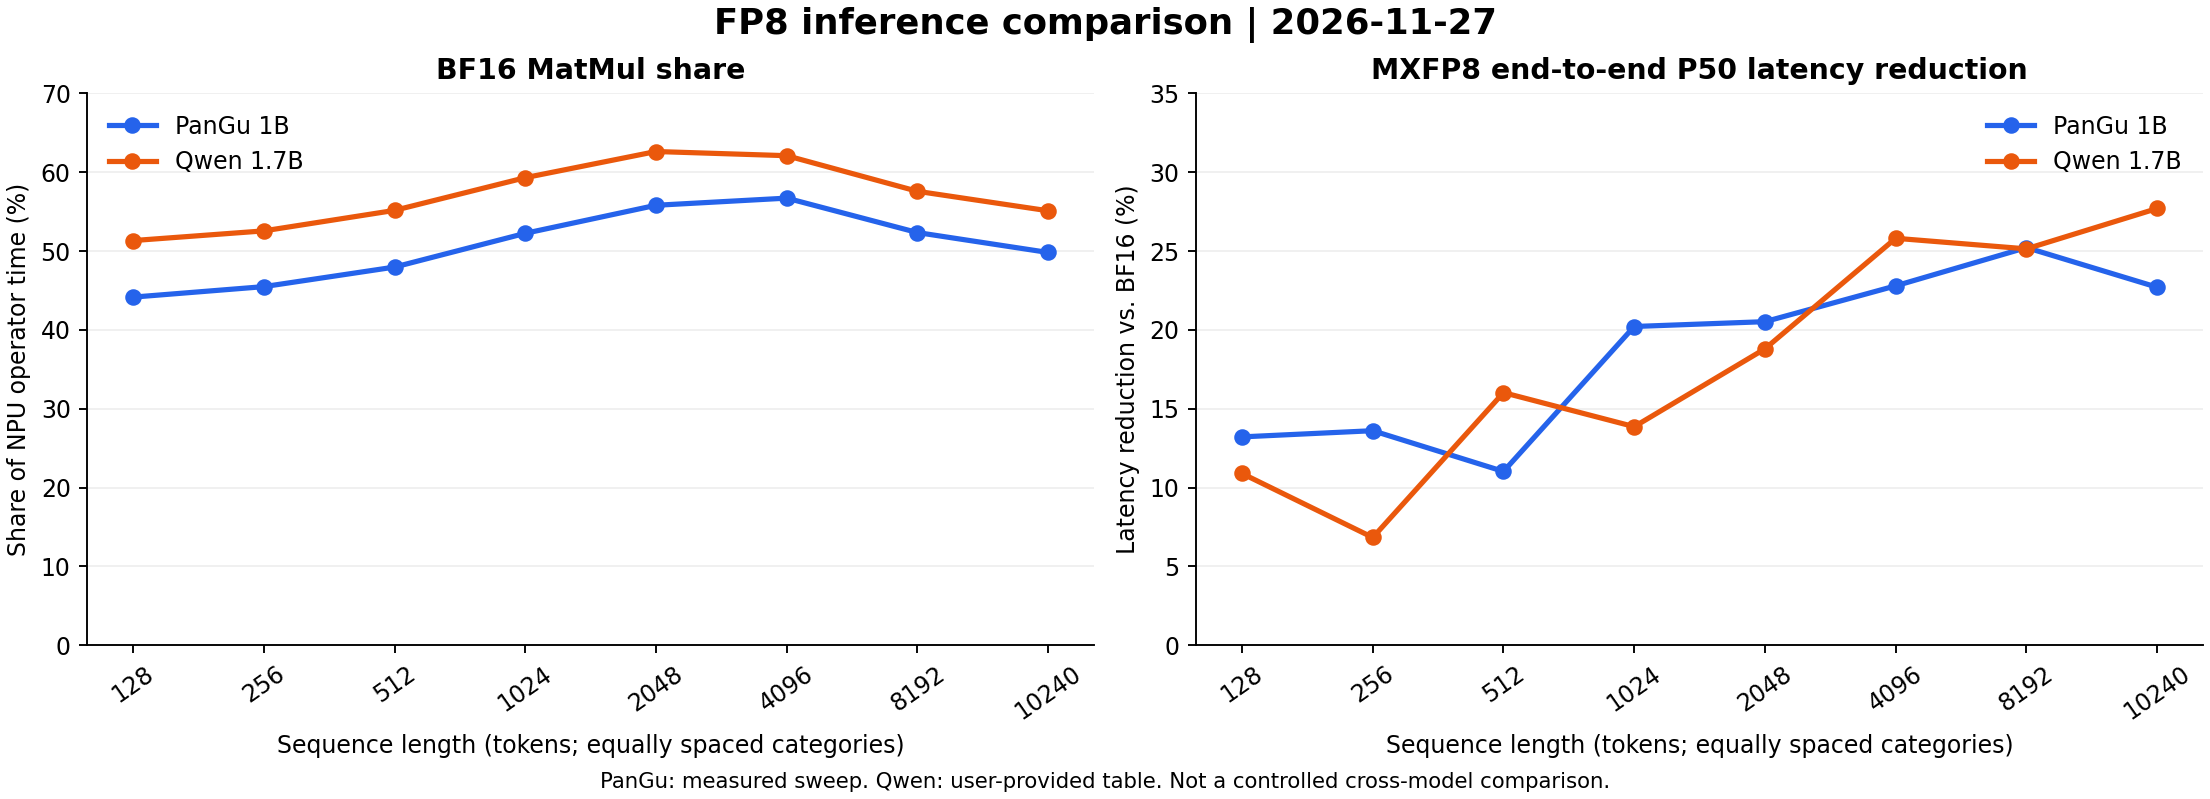
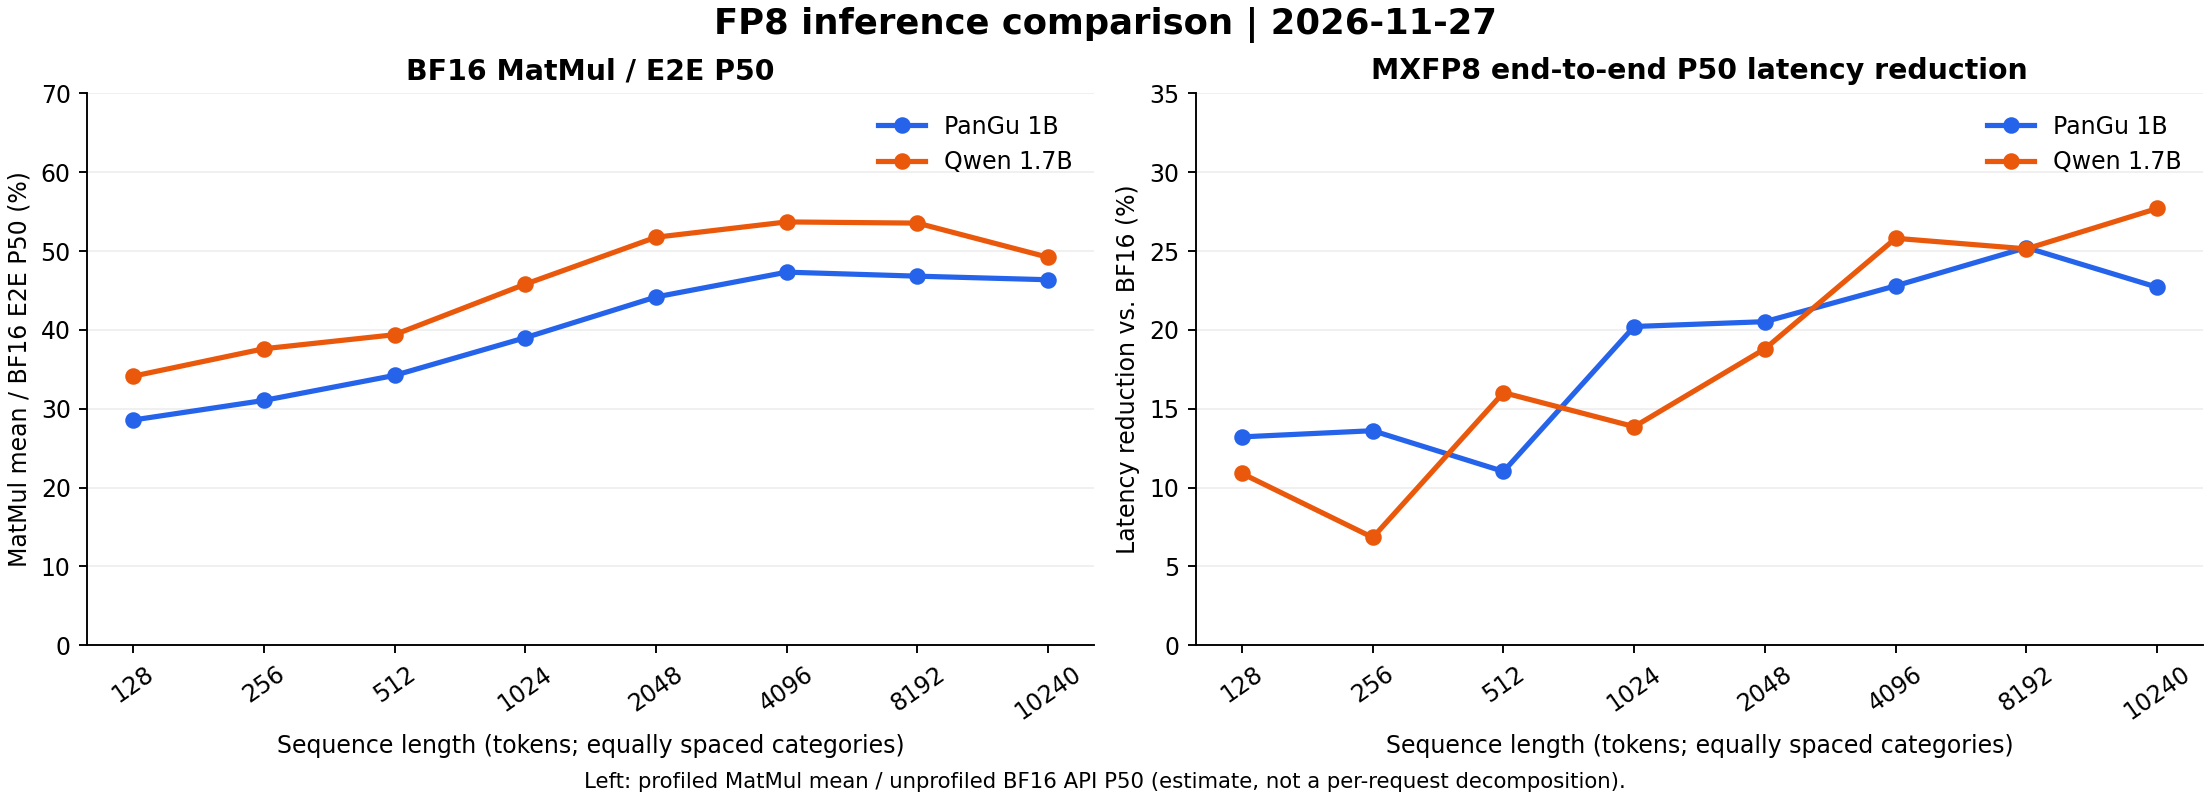
docs: plot BF16 MatMul relative to end-to-end P50

diff --git a/plot_comparison.py b/plot_comparison.py
@@ -9,14 +9,18 @@ import matplotlib.pyplot as plt
 root = Path(__file__).resolve().parent
 with (root / 'data/comparison.csv').open(encoding='utf-8', newline='') as f:
     rows = list(csv.DictReader(f))
+with (root / 'data/bf16_matmul_e2e.csv').open(encoding='utf-8', newline='') as f:
+    e2e_rows = list(csv.DictReader(f))
+assert [r['seq_tokens'] for r in rows] == [r['seq_tokens'] for r in e2e_rows]
 x = list(range(len(rows)))
 fig, axes = plt.subplots(1, 2, figsize=(13, 4.7), constrained_layout=True)
 for ax, metric, title, ylabel in [
-    (axes[0], 'bf16_matmul_pct', 'BF16 MatMul share', 'Share of NPU operator time (%)'),
+    (axes[0], 'bf16_matmul_e2e_pct', 'BF16 MatMul / E2E P50', 'MatMul mean / BF16 E2E P50 (%)'),
     (axes[1], 'latency_reduction_pct', 'MXFP8 end-to-end P50 latency reduction', 'Latency reduction vs. BF16 (%)'),
 ]:
     for model, label, color in [('pangu', 'PanGu 1B', '#2563eb'), ('qwen', 'Qwen 1.7B', '#ea580c')]:
-        ax.plot(x, [float(r[f'{model}_{metric}']) for r in rows], marker='o',
+        source = e2e_rows if metric == 'bf16_matmul_e2e_pct' else rows
+        ax.plot(x, [float(r[f'{model}_{metric}']) for r in source], marker='o',
                 linewidth=2.2, label=label, color=color)
     ax.set_xticks(x, [r['seq_tokens'] for r in rows], rotation=35)
     ax.set_xlabel('Sequence length (tokens; equally spaced categories)')
@@ -28,7 +32,7 @@ for ax, metric, title, ylabel in [
 axes[0].set_ylim(0, 70)
 axes[1].set_ylim(0, 35)
 fig.suptitle('FP8 inference comparison | 2026-11-27', fontsize=15, weight='bold')
-fig.supxlabel('PanGu: measured sweep. Qwen: user-provided table. Not a controlled cross-model comparison.', fontsize=9)
+fig.supxlabel('Left: profiled MatMul mean / unprofiled BF16 API P50 (estimate, not a per-request decomposition).', fontsize=9)
 (root / 'assets').mkdir(exist_ok=True)
 fig.savefig(root / 'assets/fp8-comparison.png', dpi=170, facecolor='white')
 plt.close(fig)

diff --git a/verify.py b/verify.py
@@ -21,4 +21,17 @@ assert {(r['seq'], r['precision']) for r in g['cases']} == {
 }
 assert all(r['fallbacks'] == 0 and r['prefill_replays'] == 65
            and r['decode_replays'] == 130 for r in g['cases'])
-print('PASS: 16 measurement rows and 16 PanGu graph replay records verified.')
+with (root / 'data/bf16_matmul_e2e.csv').open(encoding='utf-8', newline='') as f:
+    e2e_rows = list(csv.DictReader(f))
+assert [int(r['seq_tokens']) for r in e2e_rows] == expected
+for row in e2e_rows:
+    for model, source in [('pangu', 'pangu_1b'), ('qwen', 'qwen_1_7b')]:
+        numerator = float(row[f'{model}_bf16_matmul_mean_ms'])
+        denominator = float(row[f'{model}_bf16_e2e_p50_ms'])
+        ratio = float(row[f'{model}_bf16_matmul_e2e_pct'])
+        assert 0 < numerator <= denominator
+        assert abs(ratio - 100 * numerator / denominator) < 1e-10
+        with (root / 'data' / f'{source}.csv').open(encoding='utf-8', newline='') as f:
+            original = next(r for r in csv.DictReader(f) if r['seq_tokens'] == row['seq_tokens'])
+        assert abs(denominator - float(original['bf16_p50_ms'])) <= .00051
+print('PASS: measurement tables, graph records and 16 MatMul/E2E estimates verified.')

diff --git a/README.md b/README.md
@@ -8,9 +8,13 @@
 
 [下载单页 PowerPoint：Recall@32 与 AUC](slides/onerec-recall32-auc.pptx)
 
-![PanGu 1B 与 Qwen 1.7B 的 BF16 矩阵乘占比和 MXFP8 时延降幅](assets/fp8-comparison.png)
+![PanGu 1B 与 Qwen 1.7B 的 BF16 矩阵乘 E2E 占比估算和 MXFP8 时延降幅](assets/fp8-comparison.png)
 
-| Seq（token） | PanGu 1B：BF16 矩阵乘占比 | Qwen 1.7B：BF16 矩阵乘占比 | PanGu 1B：P50 时延降低 | Qwen 1.7B：P50 时延降低 |
+图左已改为 **BF16 矩阵乘每请求平均耗时 / BF16 API 端到端 P50 × 100%**。分子来自 5 条 profile 请求，分母来自预热后 50 条不启用 profiler 的请求，因此是跨采样的占比估算，不是同一请求的精确 E2E 分解。两模型的原始耗时均已从本地序列扫描结果提取，见 [E2E 占比明细 CSV](data/bf16_matmul_e2e.csv)。图右继续显示端到端 P50 时延降低百分比。
+
+下方历史表格中的矩阵乘占比仍采用原 NPU 算子累计时间口径，已在列名中标注，与图左的 E2E 口径不同。
+
+| Seq（token） | PanGu 1B：BF16 矩阵乘占比（算子时间） | Qwen 1.7B：BF16 矩阵乘占比（算子时间） | PanGu 1B：P50 时延降低 | Qwen 1.7B：P50 时延降低 |
 |---:|---:|---:|---:|---:|
 | 128 | 44.16% | 51.33% | 13.21% | 10.89% |
 | 256 | 45.49% | 52.56% | 13.60% | 6.83% |
@@ -25,7 +29,7 @@
 
 [下载 CSV](data/pangu_1b.csv)
 
-| Seq（token） | BF16 矩阵乘耗时占比 | BF16 P50（ms） | MXFP8 P50（ms） | 端到端 P50 降低 |
+| Seq（token） | BF16 矩阵乘占比（算子时间） | BF16 P50（ms） | MXFP8 P50（ms） | 端到端 P50 降低 |
 |---:|---:|---:|---:|---:|
 | 128 | 44.16% | 19.460 | 16.889 | 13.21% |
 | 256 | 45.49% | 19.657 | 16.982 | 13.60% |
@@ -40,7 +44,7 @@
 
 [下载 CSV](data/qwen_1_7b.csv)
 
-| Seq（token） | BF16 矩阵乘耗时占比 | BF16 P50（ms） | MXFP8 P50（ms） | 端到端 P50 降低 |
+| Seq（token） | BF16 矩阵乘占比（算子时间） | BF16 P50（ms） | MXFP8 P50（ms） | 端到端 P50 降低 |
 |---:|---:|---:|---:|---:|
 | 128 | 51.33% | 22.773 | 20.293 | 10.89% |
 | 256 | 52.56% | 22.592 | 21.049 | 6.83% |
